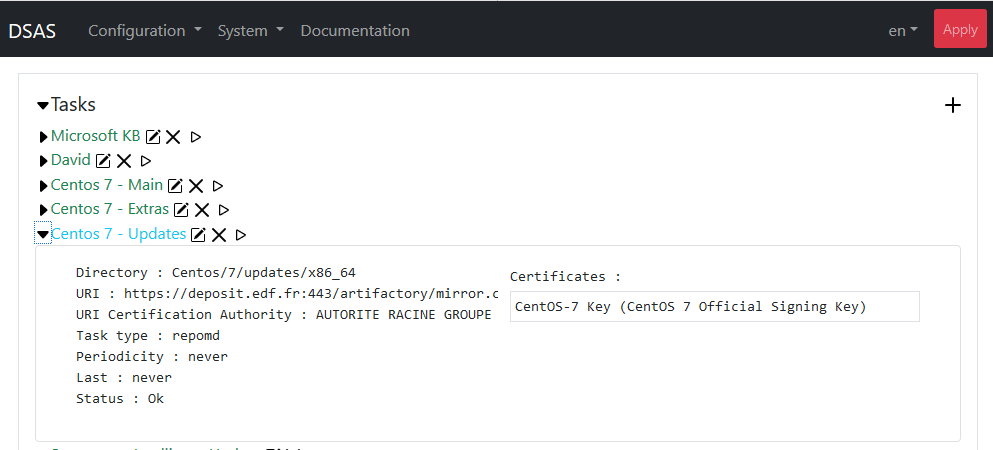
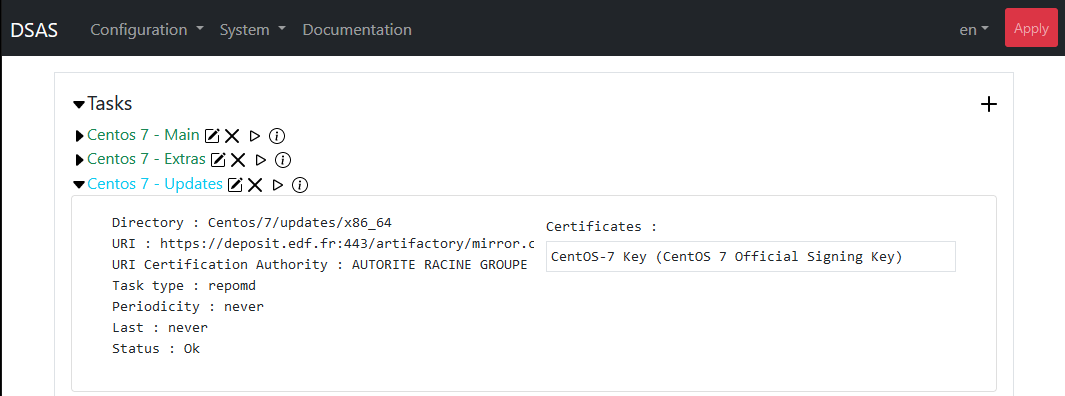
docs: document the task logs

diff --git a/append/usr/local/share/www/Documentation_fr.md b/append/usr/local/share/www/Documentation_fr.md
@@ -1247,11 +1247,11 @@ Un exemple de tache après ajout est
 ![Exemple de tache ajouté](fr/DSAS31.png)
 
 A côté de chaque tache, l'icone ![](fr/DSAS36.png) permets de modifier le tache, 
-![](fr/DSAS40.png) permet de supprimer le tache, et ![](fr/DSAS41.png) permets 
-à l'exécuter immédiatement. Le statut de la tâche et fournit via la couleur du titre 
-de la tâche. En bleu, la tâche n'a pas été exécuté, en vert l'exécution de la tâche a réussi,
-et en rouge l'exécution a échoué. La dernière exécution de la tâche est visible en ouvrant 
-la tâche comme
+![](fr/DSAS40.png) permet de supprimer le tache, ![](fr/DSAS41.png) permets 
+à l'exécuter immédiatement et ![](fr/DSAS42.png) permets les logs du tâche à être examiner. Le statut 
+de la tâche et fournit via la couleur du titre de la tâche. En bleu, la tâche n'a pas été exécuté, en 
+vert l'exécution de la tâche a réussi, et en rouge l'exécution a échoué. La dernière exécution de la
+tâche est visible en ouvrant la tâche comme
 
 ![Exemple d'éxecution de tache réussi](fr/DSAS32.png)
 

diff --git a/append/usr/local/share/www/Documentation_en.md b/append/usr/local/share/www/Documentation_en.md
@@ -1208,11 +1208,11 @@ An example of an added task is
 ![Example task added](en/DSAS31.png)
 
 Next to each task, the icon ![](en/DSAS36.png) allows the task to be modified,
-![](en/DSAS40.png) allows the task to be removed and ![](en/DSAS41.png) allows
-the task to be executed immediately. The status of the task is provided via the color of the
-task title. In blue, the task was not executed, in green, the execution of the task was successful,
-and in red the execution has failed. The last execution of the task is visible by opening
-the task as
+![](en/DSAS40.png) allows the task to be removed, ![](en/DSAS41.png) allows
+the task to be executed immediately and ![](en/DSAS42.png) allows the logs of the task to be examined. 
+The status of the task is provided via the color of the task title. In blue, the task was not executed,
+in green, the execution of the task was successful, and in red the execution has failed. The last
+execution of the task is visible by opening the task as
 
 ![Example of successful task execution](en/DSAS32.png) 
 
